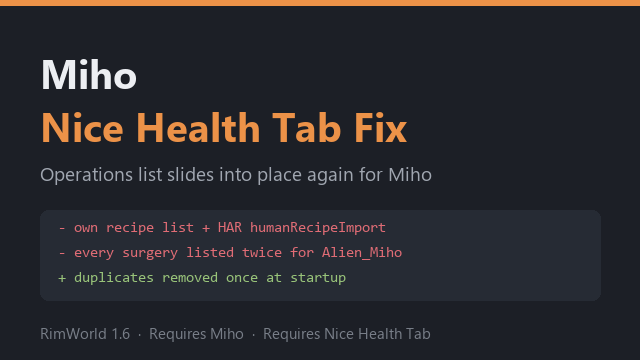
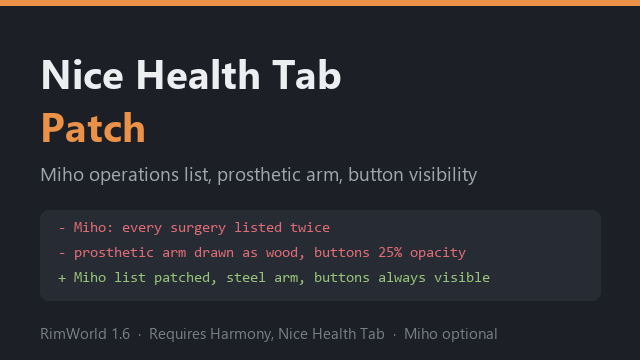
Rename to Nice Health Tab Patch, add prosthetic arm and button patches
- Miho duplicate surgeries: replace the C# AllRecipes dedup with an XML
  patch that removes the 23 Install* entries Miho lists itself on top of
  HAR humanRecipeImport. Miho is now optional.
- Remove Nice Health Tab's wooden image override for the vanilla
  SimpleProstheticArm so it is drawn like other artificial parts.
- Draw inactive doll buttons with their hover color (Harmony transpiler
  on DollWidget button color setup).

diff --git a/Source/ButtonColorPatch.cs b/Source/ButtonColorPatch.cs
@@ -1,0 +1,53 @@
+using System.Collections.Generic;
+using System.Linq;
+using System.Reflection;
+using HarmonyLib;
+using Verse;
+
+namespace NiceHealthTabPatch
+{
+    /// <summary>
+    /// Draws inactive buttons around Nice Health Tab's body doll with their hover color at all times.
+    /// </summary>
+    /// <remarks>
+    /// Nice Health Tab draws inactive icon buttons at 25% alpha until hovered, which is hard to see on its
+    /// dark background. Every load of Assets.IconInactiveColor in the button color setup is replaced
+    /// with Assets.IconInactiveHoverColor. Active (accent colored) buttons are unchanged.
+    /// </remarks>
+    [StaticConstructorOnStartup]
+    public static class ButtonColorPatch
+    {
+        private static FieldInfo inactiveColor;
+        private static FieldInfo inactiveHoverColor;
+
+        static ButtonColorPatch()
+        {
+            var assets = AccessTools.TypeByName("NiceHealthTab.Assets");
+            var dollWidget = AccessTools.TypeByName("NiceHealthTab.DollWidget");
+            inactiveColor = AccessTools.Field(assets, "IconInactiveColor");
+            inactiveHoverColor = AccessTools.Field(assets, "IconInactiveHoverColor");
+            if (dollWidget == null || inactiveColor == null || inactiveHoverColor == null)
+            {
+                Log.Warning("[NiceHealthTabPatch] Nice Health Tab button colors not found; button patch skipped.");
+                return;
+            }
+
+            var harmony = new Harmony("ifchen0.nicehealthtabpatch");
+            var transpiler = new HarmonyMethod(typeof(ButtonColorPatch), nameof(Transpiler));
+            var targets = AccessTools.GetDeclaredMethods(dollWidget)
+                .Where(m => m.Name == "ApplyButtonColors" || m.Name == "DrawVanillaToggleButton");
+            foreach (MethodInfo method in targets)
+                harmony.Patch(method, transpiler: transpiler);
+        }
+
+        private static IEnumerable<CodeInstruction> Transpiler(IEnumerable<CodeInstruction> instructions)
+        {
+            foreach (CodeInstruction ins in instructions)
+            {
+                if (ins.LoadsField(inactiveColor))
+                    ins.operand = inactiveHoverColor;
+                yield return ins;
+            }
+        }
+    }
+}
